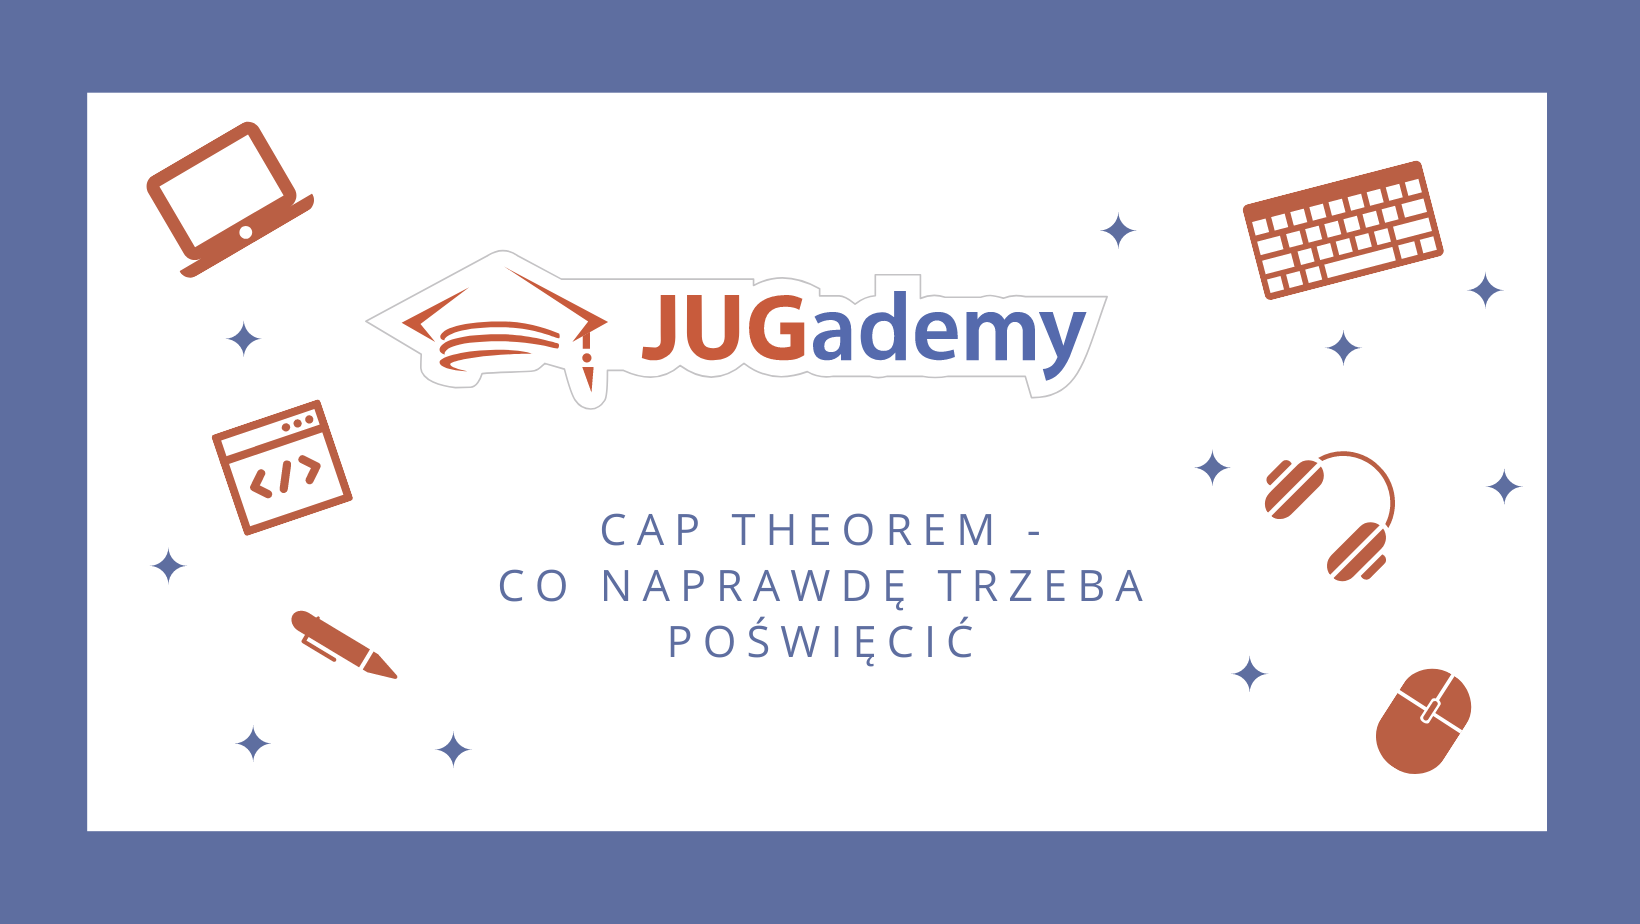
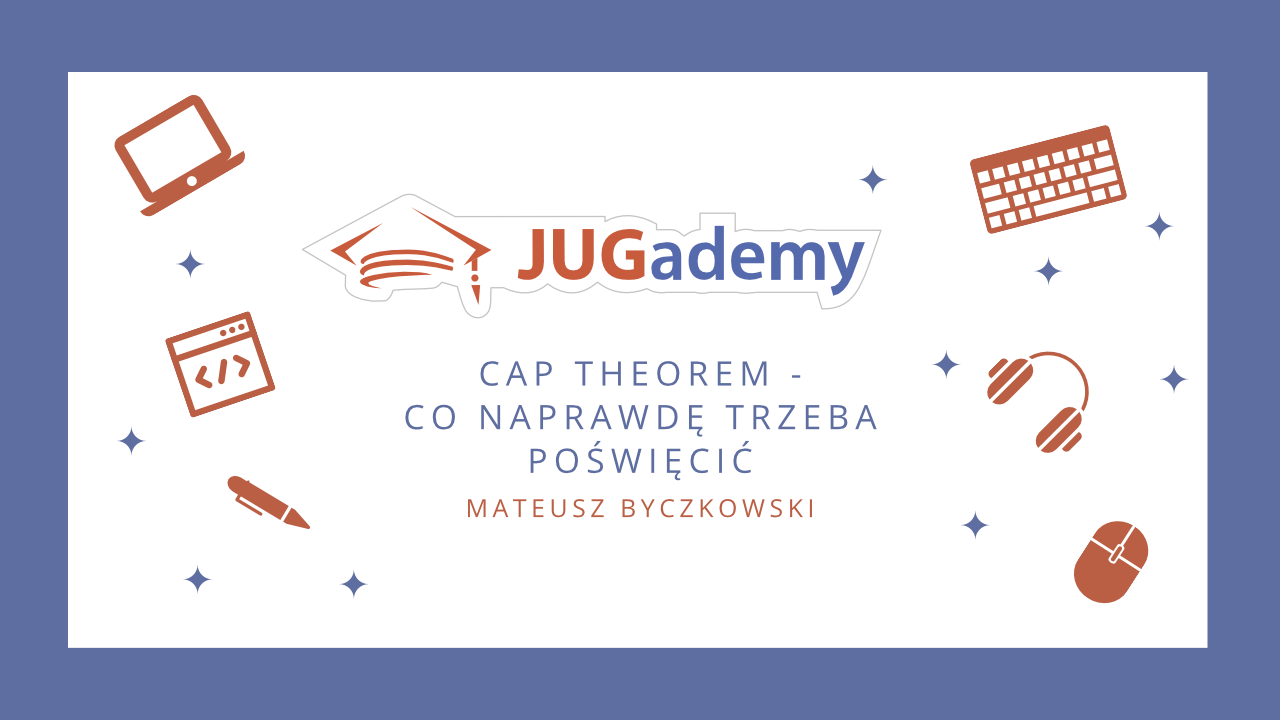
Add cover photos to all post from season 5

Changed region(s): [[0.3125, 0.4889, 0.6875, 0.7333], [0.2188, 0.275, 0.6875, 0.4278]]

diff --git a/_meetings/season-5/2022-10-05-wprowadzenie-do-apache-kafka.md b/_meetings/season-5/2022-10-05-wprowadzenie-do-apache-kafka.md
@@ -5,6 +5,7 @@ title: Wprowadzenie do Apache Kafka
 old: false
 layout: meeting
 categories: [sezon-5]
+image: assets/img/cover/wprowadzenie-do-apache-kafka.png
 ---
 
 W życiu każdego programisty przychodzi czas, w którym trzeba użyć kolejki. Pierwsze co przychodzi nam do głowy to wrzucenie Kafki do systemu, podpięcie się do niej i “job done”. To prawda, że Kafka jest świetnym rozwiązaniem, jednak bez odpowiednich podstaw możemy łatwo sobie strzelić w stopę na początkowym etapie integracji. Przeanalizujmy jak działa Kafka z perspektywy programisty mikroserwisów, jak projektować architekturę systemów z użyciem Kafki i wreszcie na co uważać, a czego unikać dodając swoich pierwszych consumerów do aplikacji.

diff --git a/_meetings/season-5/2022-04-06-poznaj-swojego-klienta-http.md b/_meetings/season-5/2022-04-06-poznaj-swojego-klienta-http.md
@@ -5,6 +5,7 @@ title: Poznaj swojego klienta HTTP
 old: false
 layout: meeting
 categories: [sezon-5]
+image: assets/img/cover/poznaj-swojego-klienta-http.png
 ---
 
 Są fundamentem każdego środowiska mikrousługowego i bez nich radosne przerzucanie JSONów po HTTP nie byłoby możliwe, a jednak często nie poświęcamy im większej uwagi. Tymczasem zgłębienie wiedzy o nich pozwoli nam na zapobiegnięcie bardzo wielu sytuacjom awaryjnym. Także z pragmatycznego punktu widzenia o wiele łatwiej i przyjemniej konfiguruje się coś, co wiemy jak działa. Na tej prezentacji opowiem o klientach HTTP, o tym co się dzieje pod ich maskami, na co warto zwrócić uwagę oraz czym właściwie różnią się obecnie popularne rozwiązania.

diff --git a/_meetings/season-5/2022-05-18-wprowadzenie-do-service-mesh.md b/_meetings/season-5/2022-05-18-wprowadzenie-do-service-mesh.md
@@ -5,6 +5,7 @@ title: Wprowadzenie do Service Mesh
 old: false
 layout: meeting
 categories: [sezon-5]
+image: assets/img/cover/wprowadzenie-do-service-mesh.png
 ---
 
 Podczas tej prezentacji chciałbym przybliżyć wam tematy związane z komunikacją pomiędzy usługami i pokazać wam czym jest i jakie problemy rozwiązuje Service Mesh. Całość prezentacji będzie bazować na [Envoyu] i zbudowanym w Allegro control plane: [Envoy Control]. Opowiem też o tym, w jakich organizacjach sprawdzi się takie podejście i jak kosztowne jest jego wdrożenie oraz jak wdrożyć te rozwiązania stosunkowo bezboleśnie.

diff --git a/_meetings/season-5/2022-05-04-czy-pisanie-aplikacji-webowych-w-sposob-blokujacy-ma-jeszcze-sens.md b/_meetings/season-5/2022-05-04-czy-pisanie-aplikacji-webowych-w-sposob-blokujacy-ma-jeszcze-sens.md
@@ -5,6 +5,7 @@ title: Czy pisanie aplikacji webowych w sposób blokujący ma jeszcze sens?
 old: false
 layout: meeting
 categories: [sezon-5]
+image: assets/img/cover/czy-pisanie-aplikacji-webowych-w-sposob-blokujacy-ma-jeszcze-sens.png
 ---
 
 Systemy informatyczne od zawsze musiały odpowiadać jak najszybciej. Jedna dziesiąta sekundy to dla użytkownika poczucie bezpośredniego manipulowania aplikacją. Jedna sekunda pozwala mu nadal niezakłócenie nawigować po interfejsie. Inny czas odpowiedzi jest nieodpowiedni. Dzisiejsze programy od początku powinny działać w sposób nieblokujący. 

diff --git a/_meetings/season-5/2022-09-21-wprowadzenie-do-es-i-ddd.md b/_meetings/season-5/2022-09-21-wprowadzenie-do-es-i-ddd.md
@@ -5,6 +5,7 @@ title: Wprowadzenie do Event Stormingu i DDD
 old: false
 layout: meeting
 categories: [sezon-5]
+image: assets/img/cover/wprowadzenie-do-es-i-ddd.png
 ---
 
 Jeżeli kiedykolwiek miałeś problem z utrzymaniem systemu który jest złożony a nowe wymagania biznesowe ciągle dochodzą lub rozmowy z właścicielami biznesowymi nie należą do najłatwiejszych.

diff --git a/_meetings/season-5/2022-06-29-big-data-aka-big-confusion.md b/_meetings/season-5/2022-06-29-big-data-aka-big-confusion.md
@@ -5,6 +5,7 @@ title: Big Data AKA Big Confusion
 old: false
 layout: meeting
 categories: [sezon-5]
+image: assets/img/cover/big-data-aka-big-confusion.png
 ---
 
 Data Engineer, Data Scientist, Machine Learning Specialist czy po prostu Analityk? Czym te pozycje się różnią? W jakich technologiach pracuje się z danymi? 

diff --git a/_meetings/season-5/2022-04-20-wprowadzenie-do-k8s.md b/_meetings/season-5/2022-04-20-wprowadzenie-do-k8s.md
@@ -5,6 +5,7 @@ title: Wprowadzenie do Kubernetes
 old: false
 layout: meeting
 categories: [sezon-5]
+image: assets/img/cover/wprowadzenie-do-kubernetes.png
 ---
 
 Prezentacja będzie wprowadzeniem w temat Kubernetesa dla osób początkujących, nie mających lub posiadających bardzo małe doświadczenie w tym temacie.

diff --git a/_meetings/season-5/2022-06-01-monitoring-aplikacji.md b/_meetings/season-5/2022-06-01-monitoring-aplikacji.md
@@ -5,6 +5,7 @@ title: Co robi moja aplikacja kiedy nie patrzę?
 old: false
 layout: meeting
 categories: [sezon-5]
+image: assets/img/cover/monitoring-aplikacji.png
 ---
 
 Opowiem o tym, jak możemy sprawdzić co się dzieje z naszymi usługami i jakie są dobre praktyki SRE.

diff --git a/_meetings/season-5/2022-06-15-piramida-testow.md b/_meetings/season-5/2022-06-15-piramida-testow.md
@@ -5,6 +5,7 @@ title: Piramida testów
 old: false
 layout: meeting
 categories: [sezon-5]
+image: assets/img/cover/piramida-testow.png
 ---
 
 Umiejętność stosowania piramidy testów jest niezbędna dla dobrych programistów. 
